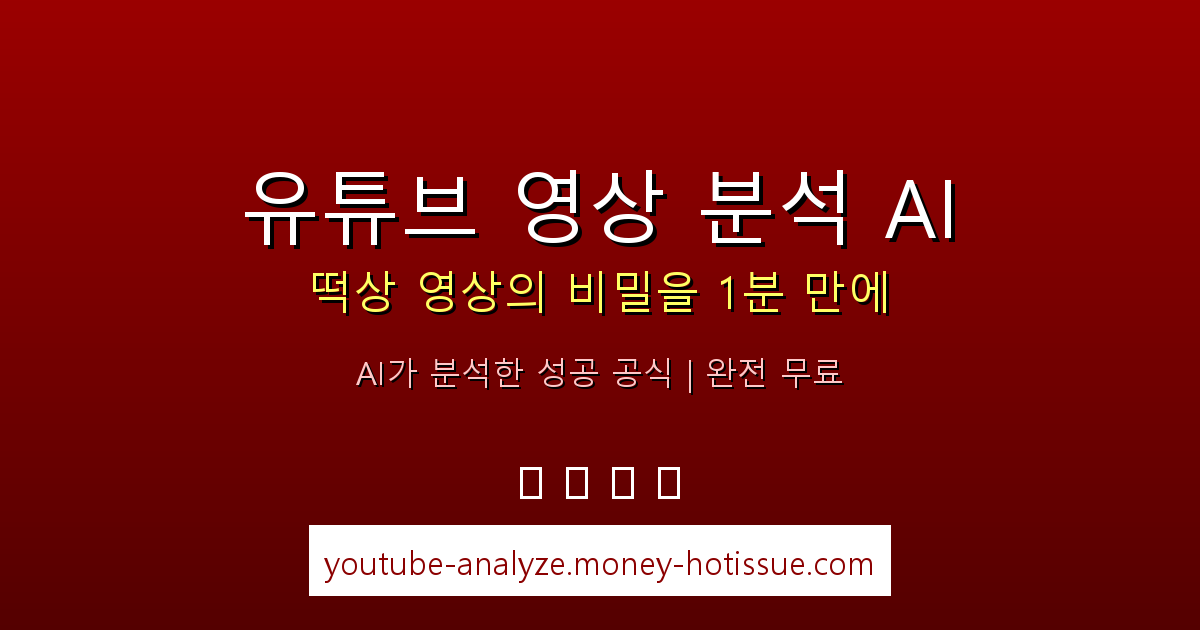
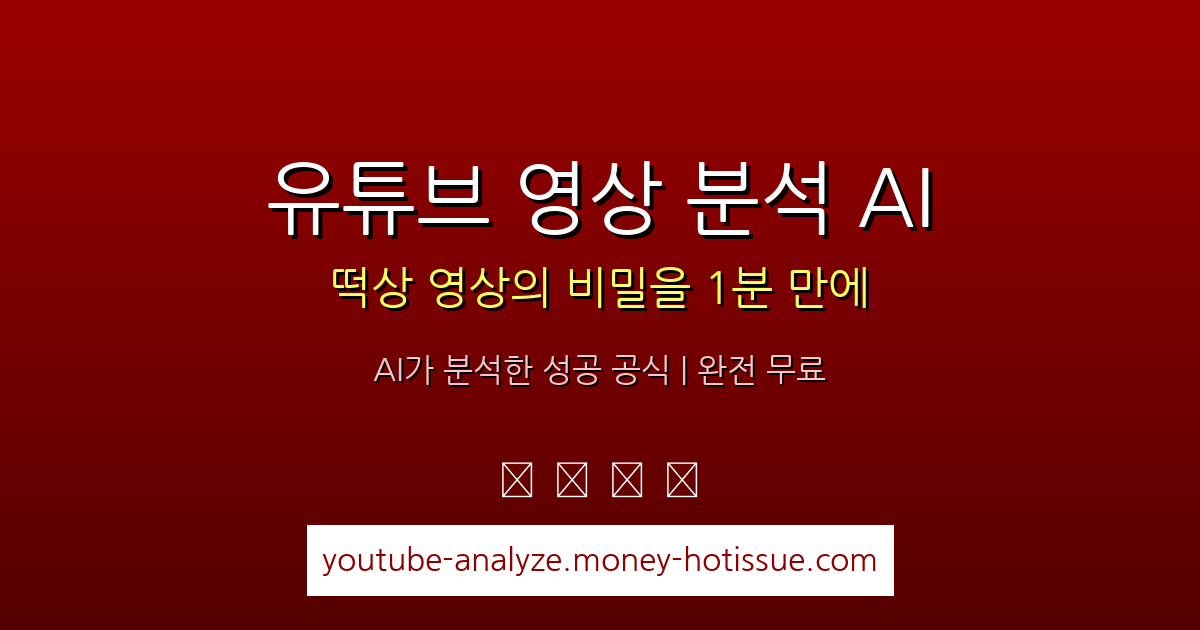
Use NanumGothic font for OG images to fix Korean text display

diff --git a/create_og_images.py b/create_og_images.py
@@ -25,21 +25,29 @@ def create_og_image():
     
     # 한글 폰트 로드 (Windows 시스템 폰트)
     try:
-        # Windows에서 한글 지원 폰트 시도
-        title_font = ImageFont.truetype("C:/Windows/Fonts/malgun.ttf", 80)  # 맑은 고딕
-        subtitle_font = ImageFont.truetype("C:/Windows/Fonts/malgun.ttf", 45)
-        desc_font = ImageFont.truetype("C:/Windows/Fonts/malgun.ttf", 32)
-    except:
+        # 나눔고딕 사용
+        title_font = ImageFont.truetype("C:/Windows/Fonts/NanumGothic.ttf", 80)
+        subtitle_font = ImageFont.truetype("C:/Windows/Fonts/NanumGothic.ttf", 45)
+        desc_font = ImageFont.truetype("C:/Windows/Fonts/NanumGothic.ttf", 32)
+    except Exception as e:
+        print(f"⚠ Font loading error: {e}")
         try:
-            # 맑은 고딕이 없으면 굴림 시도
-            title_font = ImageFont.truetype("C:/Windows/Fonts/gulim.ttc", 80)
-            subtitle_font = ImageFont.truetype("C:/Windows/Fonts/gulim.ttc", 45)
-            desc_font = ImageFont.truetype("C:/Windows/Fonts/gulim.ttc", 32)
+            # Hancom Gothic 시도
+            title_font = ImageFont.truetype("C:/Windows/Fonts/Hancom Gothic Regular.ttf", 80)
+            subtitle_font = ImageFont.truetype("C:/Windows/Fonts/Hancom Gothic Regular.ttf", 45)
+            desc_font = ImageFont.truetype("C:/Windows/Fonts/Hancom Gothic Regular.ttf", 32)
         except:
-            # 모두 실패 시 기본 폰트
-            title_font = ImageFont.load_default()
-            subtitle_font = ImageFont.load_default()
-            desc_font = ImageFont.load_default()
+            try:
+                # 굴림 시도
+                title_font = ImageFont.truetype("C:/Windows/Fonts/GOTHIC.TTF", 80)
+                subtitle_font = ImageFont.truetype("C:/Windows/Fonts/GOTHIC.TTF", 45)
+                desc_font = ImageFont.truetype("C:/Windows/Fonts/GOTHIC.TTF", 32)
+            except:
+                # 모두 실패 시 기본 폰트
+                print("❌ All fonts failed, using default")
+                title_font = ImageFont.load_default()
+                subtitle_font = ImageFont.load_default()
+                desc_font = ImageFont.load_default()
     
     # 텍스트 그리기
     # 메인 타이틀
@@ -108,12 +116,12 @@ def create_guide_og_image():
         draw.rectangle([(0, y), (width, y+1)], fill=(r, g, b))
     
     try:
-        title_font = ImageFont.truetype("C:/Windows/Fonts/malgun.ttf", 70)
-        subtitle_font = ImageFont.truetype("C:/Windows/Fonts/malgun.ttf", 40)
+        title_font = ImageFont.truetype("C:/Windows/Fonts/NanumGothic.ttf", 70)
+        subtitle_font = ImageFont.truetype("C:/Windows/Fonts/NanumGothic.ttf", 40)
     except:
         try:
-            title_font = ImageFont.truetype("C:/Windows/Fonts/gulim.ttc", 70)
-            subtitle_font = ImageFont.truetype("C:/Windows/Fonts/gulim.ttc", 40)
+            title_font = ImageFont.truetype("C:/Windows/Fonts/GOTHIC.TTF", 70)
+            subtitle_font = ImageFont.truetype("C:/Windows/Fonts/GOTHIC.TTF", 40)
         except:
             title_font = ImageFont.load_default()
             subtitle_font = ImageFont.load_default()
@@ -148,12 +156,12 @@ def create_api_guide_og_image():
         draw.rectangle([(0, y), (width, y+1)], fill=(r, g, b))
     
     try:
-        title_font = ImageFont.truetype("C:/Windows/Fonts/malgun.ttf", 70)
-        subtitle_font = ImageFont.truetype("C:/Windows/Fonts/malgun.ttf", 40)
+        title_font = ImageFont.truetype("C:/Windows/Fonts/NanumGothic.ttf", 70)
+        subtitle_font = ImageFont.truetype("C:/Windows/Fonts/NanumGothic.ttf", 40)
     except:
         try:
-            title_font = ImageFont.truetype("C:/Windows/Fonts/gulim.ttc", 70)
-            subtitle_font = ImageFont.truetype("C:/Windows/Fonts/gulim.ttc", 40)
+            title_font = ImageFont.truetype("C:/Windows/Fonts/GOTHIC.TTF", 70)
+            subtitle_font = ImageFont.truetype("C:/Windows/Fonts/GOTHIC.TTF", 40)
         except:
             title_font = ImageFont.load_default()
             subtitle_font = ImageFont.load_default()
